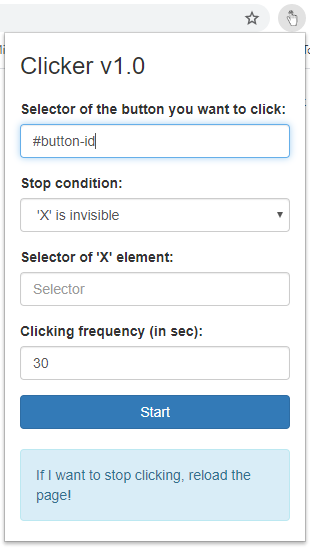
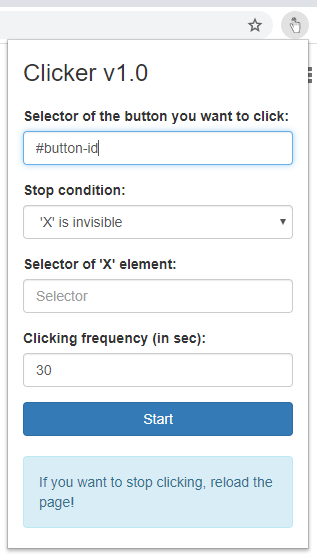
Fix information message

Changed region(s): [[0.0, 0.0, 1.0, 0.9855]]

diff --git a/popup.html b/popup.html
@@ -71,7 +71,7 @@
         </form>
 
         <div class="alert alert-info">
-            If I want to stop clicking, reload the page!
+            If you want to stop clicking, reload the page!
         </div>
     </div>
     <script src="popup.js"></script>
